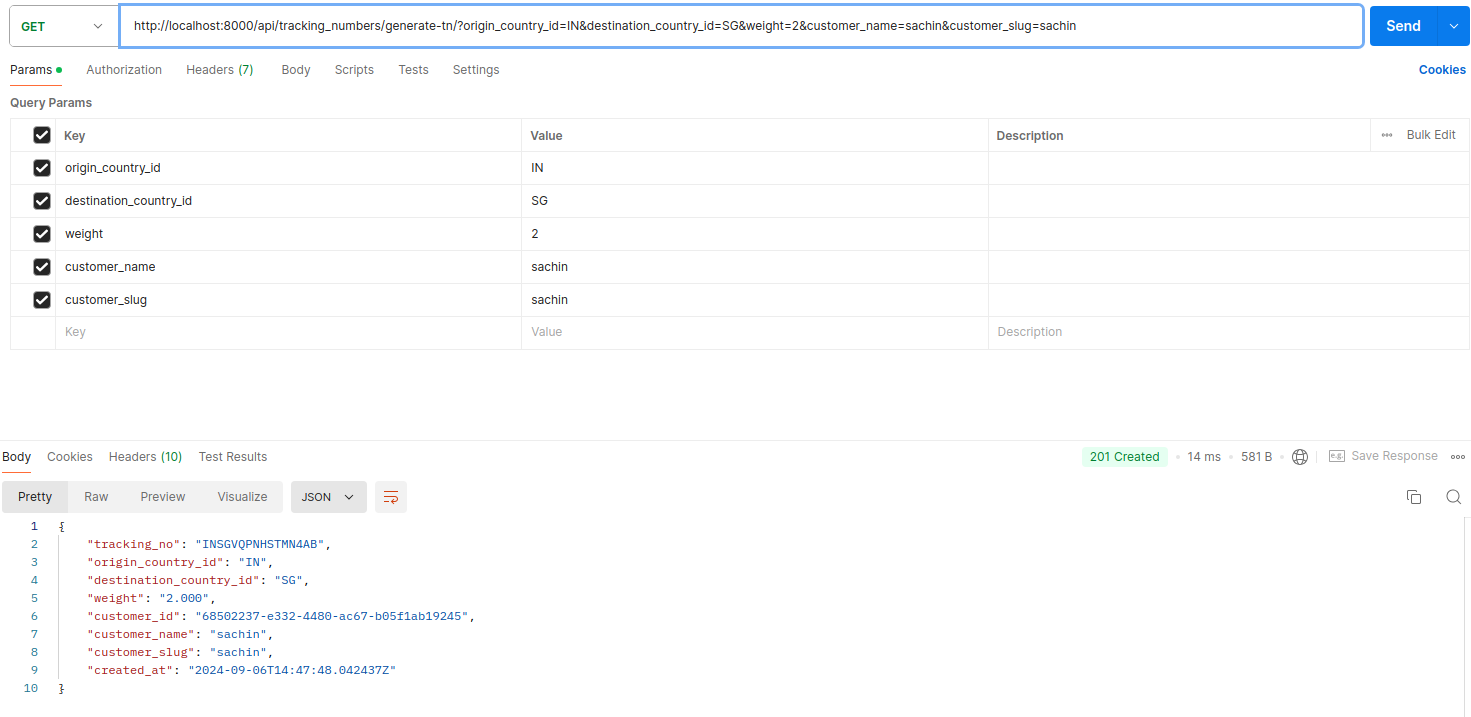
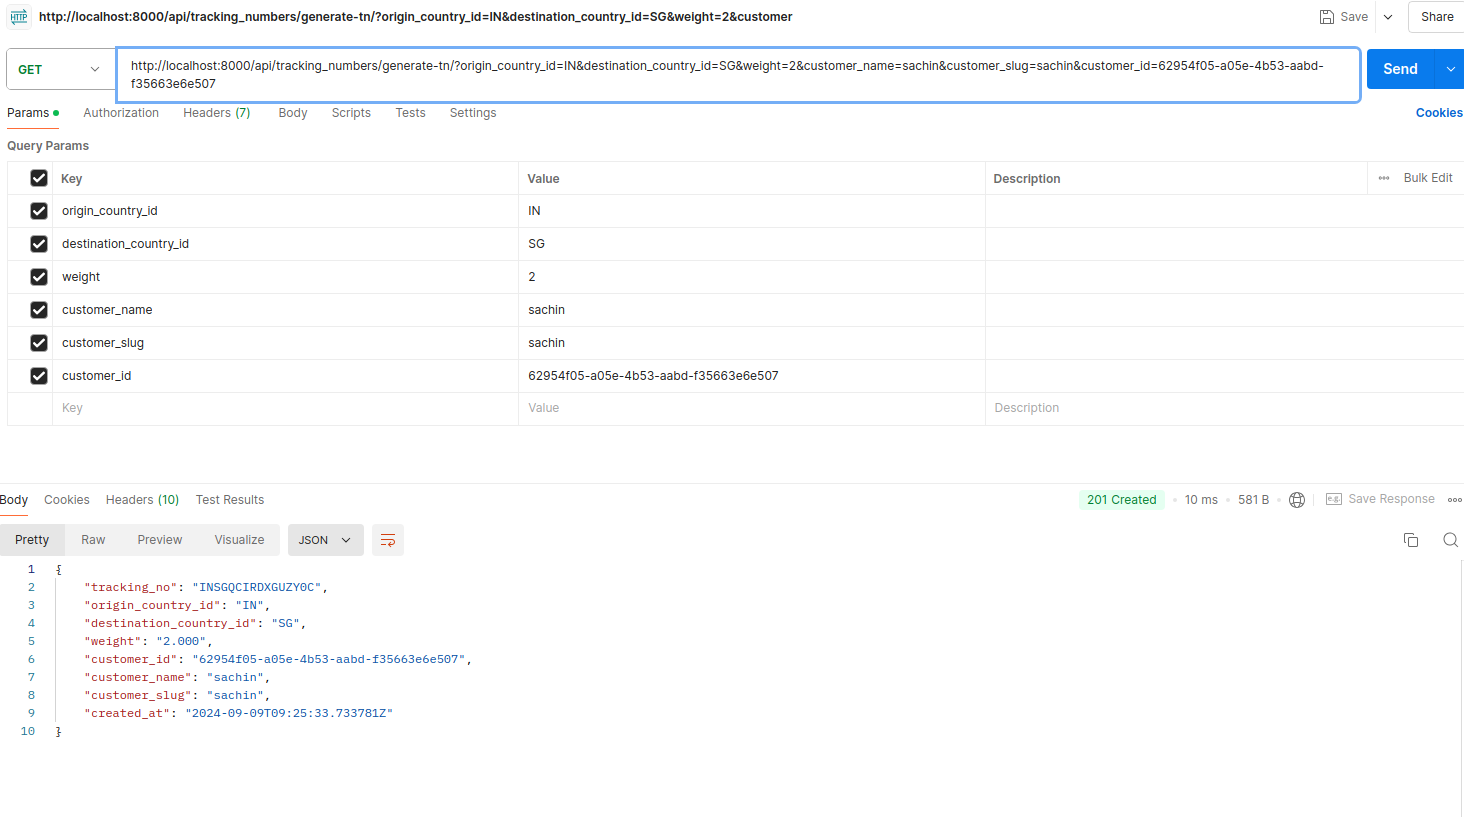
customer_id should be passed in query param and we should not generate it.

diff --git a/generate_tn/models.py b/generate_tn/models.py
@@ -14,7 +14,7 @@ class TrackingNumber(BaseModel):
     origin_country_id = models.CharField(max_length=2)
     destination_country_id = models.CharField(max_length=2)
     weight = models.DecimalField(max_digits=6, decimal_places=3)
-    customer_id = models.UUIDField(default=uuid.uuid4, editable=False)
+    customer_id = models.UUIDField()
     customer_name = models.CharField(max_length=255)
     customer_slug = models.SlugField(max_length=255)
     

diff --git a/README.md b/README.md
@@ -52,6 +52,7 @@ GET http://localhost:8000/api/tracking_numbers/generate-tn/ in postman with the 
 origin_country_id
 destination_country_id
 weight
+customer_id
 customer_name
 customer_slug
 
@@ -60,6 +61,7 @@ customer_slug
 origin_country_id=IN
 destination_country_id=SG
 weight=2
+customer_id=62954f05-a05e-4b53-aabd-f35663e6e507
 customer_name=sachin
 customer_slug=sachin
 
